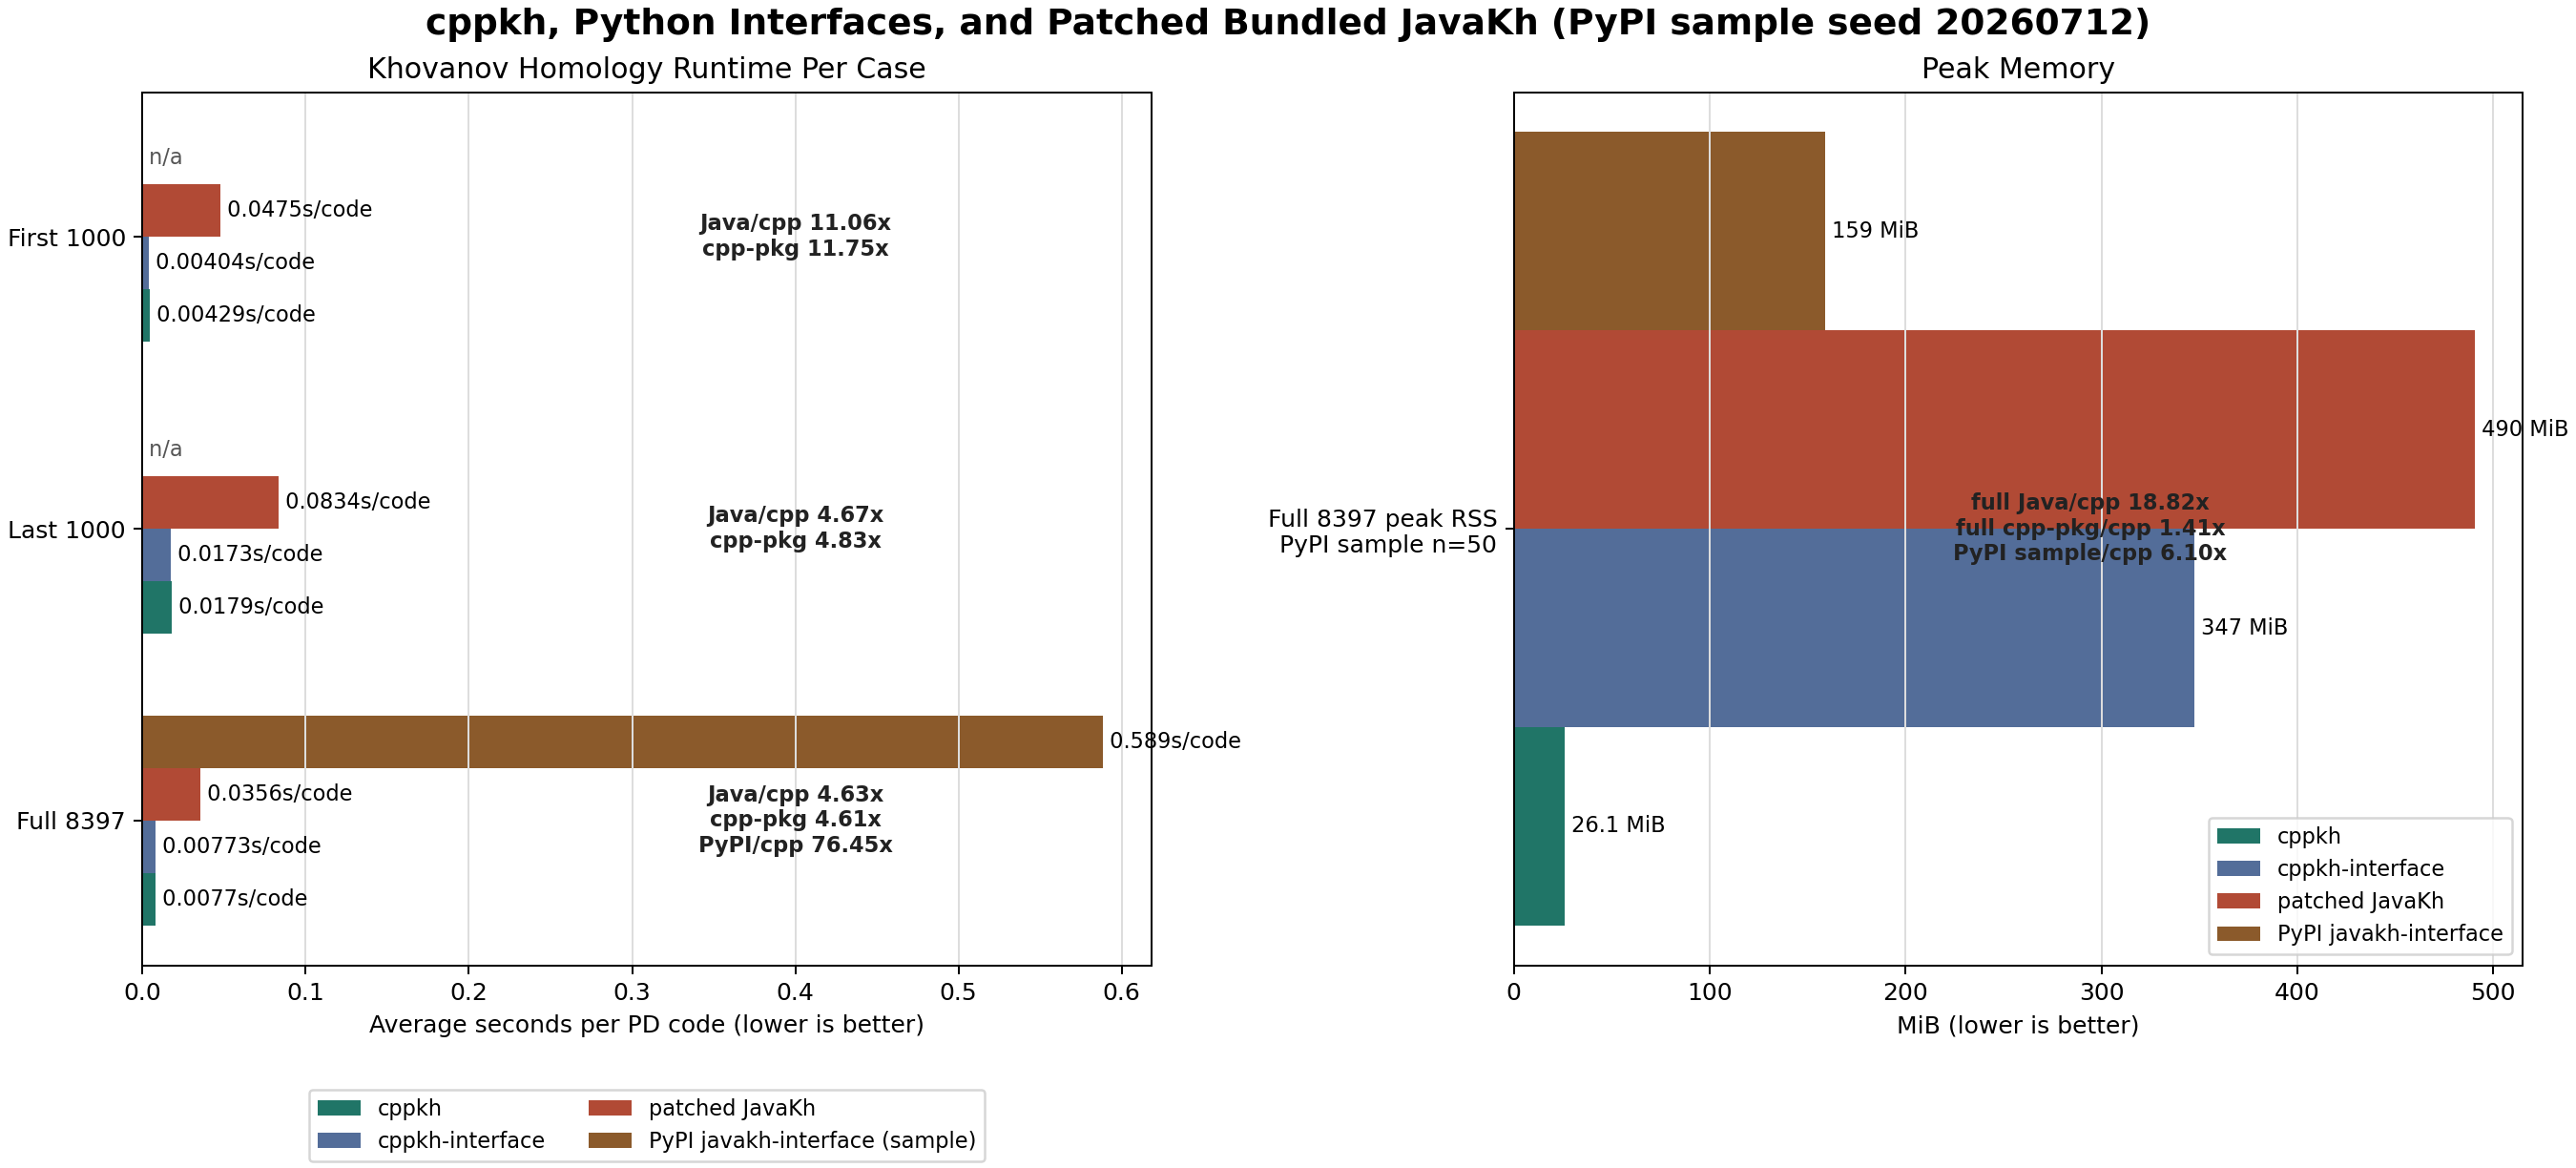
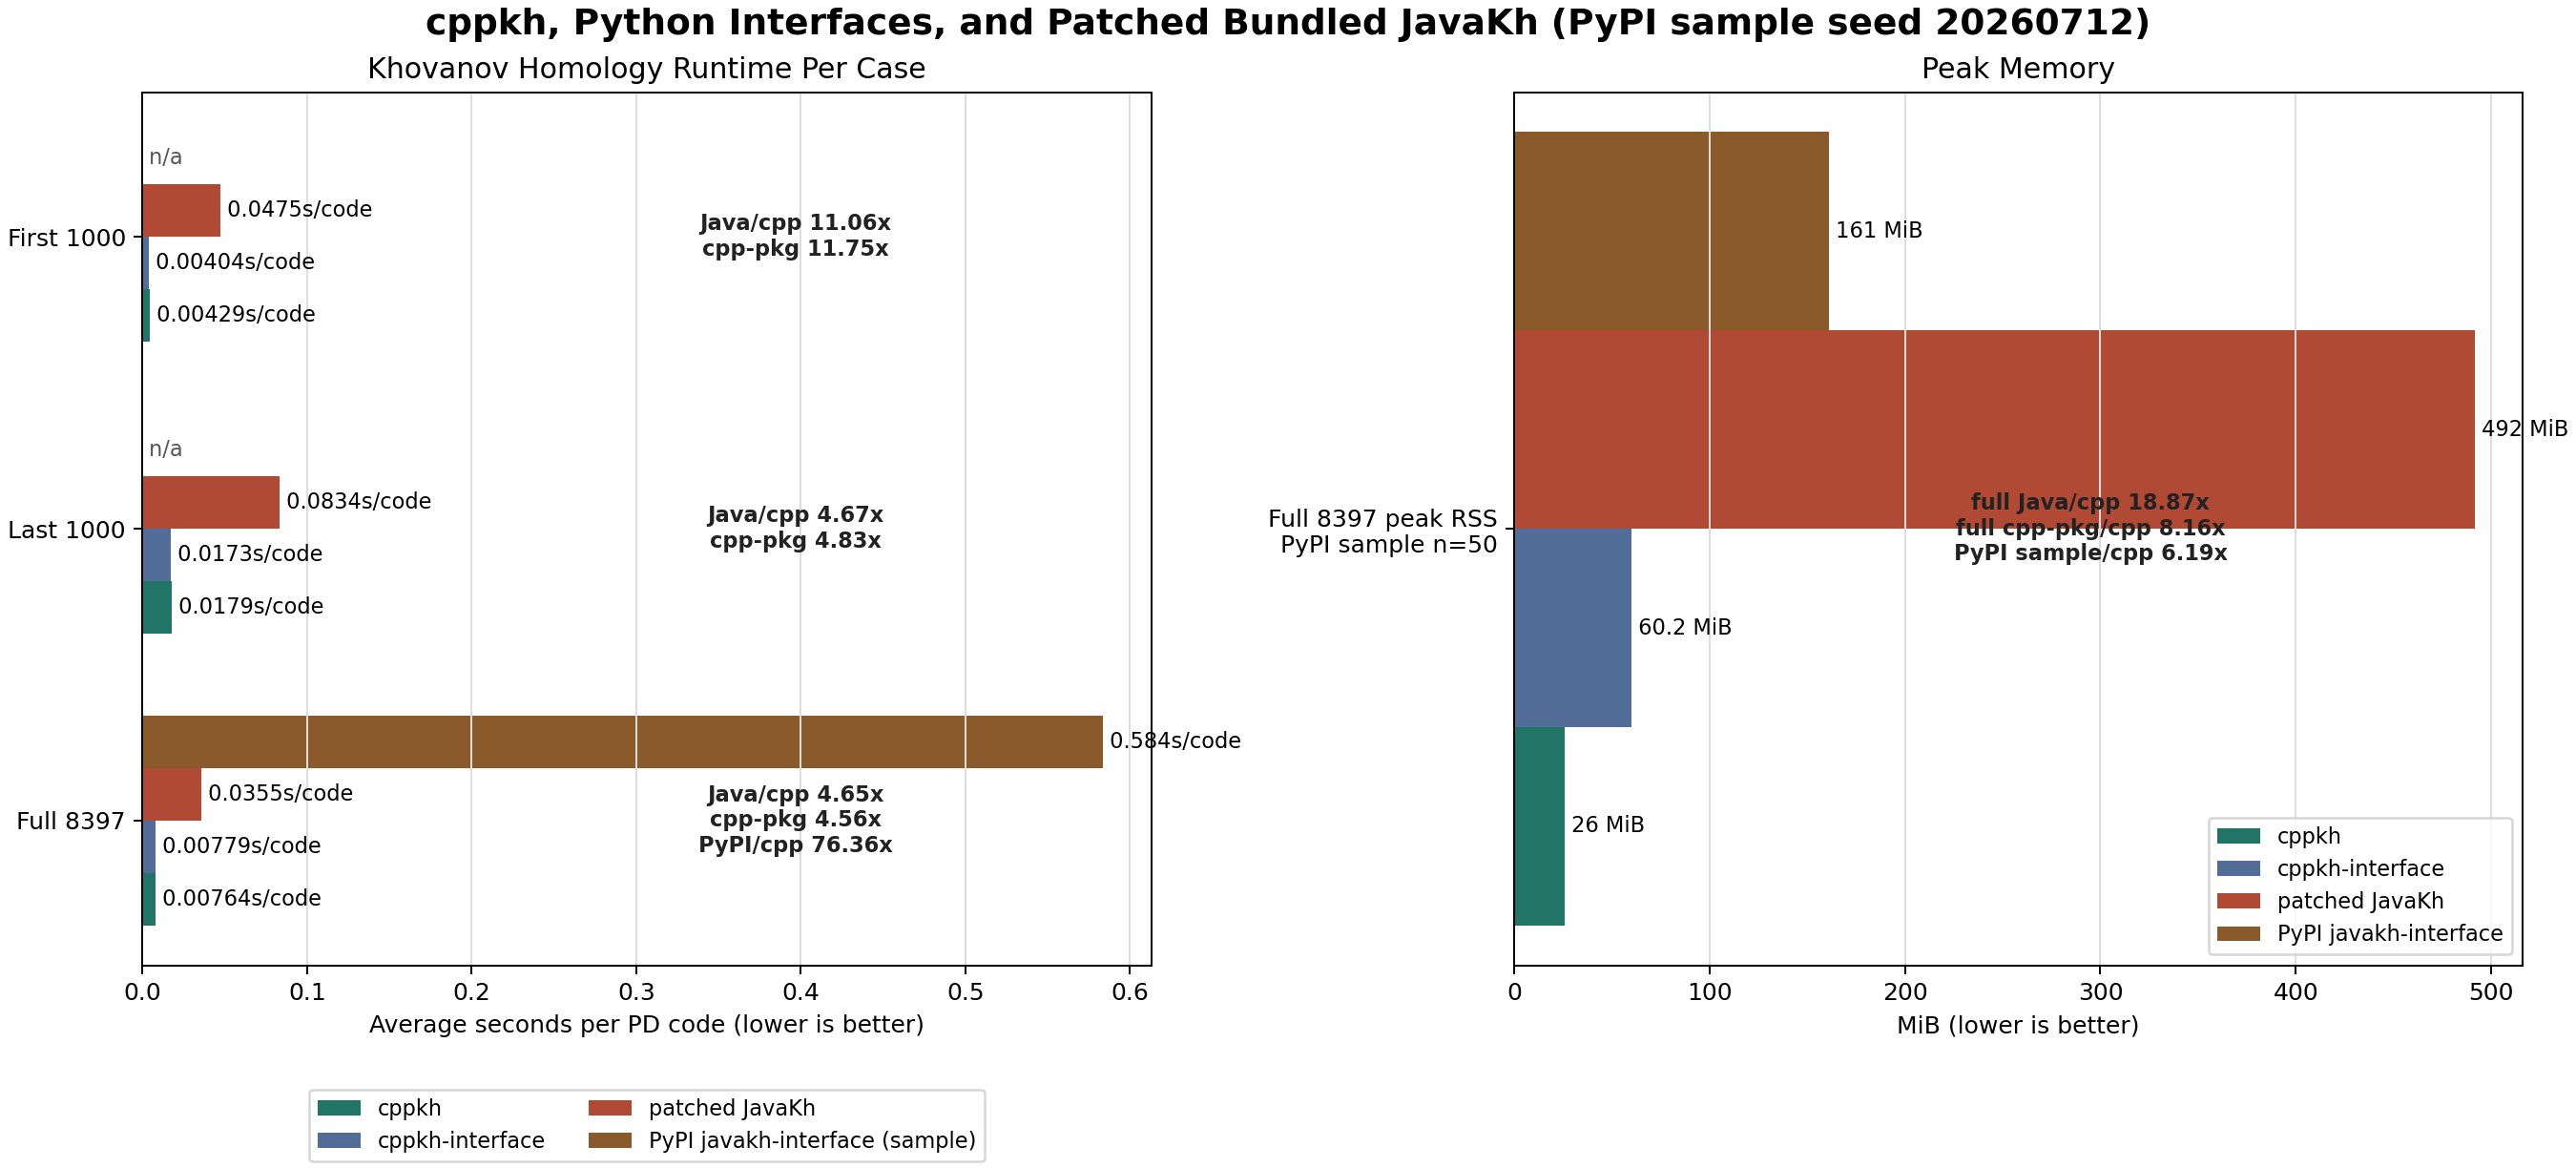
Refresh javakh-interface benchmark results

diff --git a/tools/plot_benchmarks.py b/tools/plot_benchmarks.py
@@ -39,10 +39,10 @@ RUNTIME_ROWS = [
     {
         "label": "Full 8397",
         "items": 8397,
-        "cppkh_seconds": 64.658645,
-        "cppkh_interface_seconds": 64.944292,
-        "javakh_seconds": 299.233587,
-        "javakh_interface_seconds": 29.435682,
+        "cppkh_seconds": 64.185450,
+        "cppkh_interface_seconds": 65.405585,
+        "javakh_seconds": 298.452713,
+        "javakh_interface_seconds": 29.185234,
         "javakh_interface_items": 50,
     },
 ]
@@ -51,10 +51,10 @@ RUNTIME_ROWS = [
 # Filled from a full 8397-case process-memory run with
 # tools/measure_peak_memory.py. Values are peak RSS measurements in MiB.
 MEMORY_MIB = {
-    "cppkh_peak_rss": 26.05859375,
-    "cppkh_interface_peak_rss": 347.16796875,
-    "javakh_peak_rss": 490.4921875,
-    "javakh_interface_peak_rss": 159.0234375,
+    "cppkh_peak_rss": 26.046875,
+    "cppkh_interface_peak_rss": 60.2265625,
+    "javakh_peak_rss": 491.55078125,
+    "javakh_interface_peak_rss": 161.19140625,
 }
 
 JAVAKH_INTERFACE_SAMPLE_SIZE = 50

diff --git a/docs/BENCHMARKS.md b/docs/BENCHMARKS.md
@@ -51,11 +51,11 @@ Machine-local benchmark on Windows, 2026-07-12:
 | --- | ---: | ---: | ---: | ---: | ---: | ---: | ---: | --- |
 | First 1000 lines | 1000 | 1.249s | 4.294s | 4.041s | 47.484s | 11.059x | 11.750x | OK |
 | Last 1000 lines | 1000 | 1.587s | 17.851s | 17.262s | 83.403s | 4.672x | 4.831x | OK |
-| Full `test_pdcode.txt` | 8397 | 12.368s | 64.659s | 64.944s | 299.234s | 4.628x | 4.608x | OK |
+| Full `test_pdcode.txt` | 8397 | 11.891s | 64.185s | 65.406s | 298.453s | 4.650x | 4.563x | OK |
 
 PyPI `javakh-interface` is intentionally not run on the full 8397 cases. On
-the 50-case sample from the full set, it completed in `29.436s`, averaging
-`588.714 ms` per PD code, and matched `cppkh` and patched JavaKh on all 50
+the 50-case sample from the full set, it completed in `29.185s`, averaging
+`583.705 ms` per PD code, and matched `cppkh` and patched JavaKh on all 50
 sampled cases.
 
 ![cppkh benchmark runtime and memory chart](assets/benchmark_runtime_memory.png)
@@ -74,29 +74,29 @@ cppkh-interface   | #### 17.262 ms
 patched JavaKh    | #################### 83.403 ms
 
 Full 8397
-cppkh             | ### 7.700 ms
-cppkh-interface   | ### 7.734 ms
-patched JavaKh    | #################### 35.635 ms
-PyPI javakh-iface | sample n=50, 588.714 ms
+cppkh             | ### 7.644 ms
+cppkh-interface   | ### 7.789 ms
+patched JavaKh    | #################### 35.543 ms
+PyPI javakh-iface | sample n=50, 583.705 ms
 ```
 
 The combined full-run summaries were:
 
 ```text
 items: 8397
-cppkh_seconds: 64.659
-cppkh_interface_seconds: 64.944
-javakh_seconds: 299.234
+cppkh_seconds: 64.185
+cppkh_interface_seconds: 65.406
+javakh_seconds: 298.453
 cppkh_results: 8397
 cppkh_interface_results: 8397
 javakh_results: 8397
 cppkh_javakh_full_match: True
 cppkh_interface_match: True
-java_over_cpp_speed_ratio: 4.628
-java_over_cppkh_interface_speed_ratio: 4.608
+java_over_cpp_speed_ratio: 4.650
+java_over_cppkh_interface_speed_ratio: 4.563
 javakh_interface_sample_size: 50
-javakh_interface_seconds: 29.436
-javakh_interface_average_seconds: 0.589
+javakh_interface_seconds: 29.185
+javakh_interface_average_seconds: 0.584
 javakh_interface_sample_match: True
 ```
 
@@ -111,21 +111,21 @@ the full prepared input. PyPI `javakh-interface` was measured on the same
 
 | Input set | Metric | cppkh | cppkh-interface | patched JavaKh | PyPI javakh-interface |
 | --- | --- | ---: | ---: | ---: | ---: |
-| Full `test_pdcode.txt`; PyPI sample n=50 | Peak RSS | 26.06 MiB | 347.17 MiB | 490.49 MiB | 159.02 MiB |
+| Full `test_pdcode.txt`; PyPI sample n=50 | Peak RSS | 26.05 MiB | 60.23 MiB | 491.55 MiB | 161.19 MiB |
 
 The memory-measurement run completed successfully:
 
 ```text
-cppkh_seconds: 63.974
-cppkh_interface_seconds: 87.758
-javakh_interface_seconds: 28.894
-javakh_seconds: 282.774
-cppkh_peak_rss_mib: 26.059
-cppkh_interface_peak_rss_mib: 347.168
-javakh_interface_peak_rss_mib: 159.023
-javakh_peak_rss_mib: 490.492
-javakh_over_cpp_peak_rss_ratio: 18.823
-javakh_over_cppkh_interface_peak_rss_ratio: 1.413
+cppkh_seconds: 64.816
+cppkh_interface_seconds: 79.644
+javakh_interface_seconds: 28.505
+javakh_seconds: 285.601
+cppkh_peak_rss_mib: 26.047
+cppkh_interface_peak_rss_mib: 60.227
+javakh_interface_peak_rss_mib: 161.191
+javakh_peak_rss_mib: 491.551
+javakh_over_cpp_peak_rss_ratio: 18.872
+javakh_over_cppkh_interface_peak_rss_ratio: 8.162
 javakh_interface_sample_size: 50
 ```
 
@@ -147,11 +147,11 @@ Rerun the peak-RSS measurement on an already prepared full PD file:
 
 ```sh
 python tools/measure_peak_memory.py \
-  --prepared-pd benchmark/triad-full8397-javakh-interface-sample50-010/prepared.pd \
+  --prepared-pd benchmark/triad-full8397-javakh-interface-sample50-011/prepared.pd \
   --cpp-exe dist/windows/cppkh.exe \
   --cppkh-interface-python benchmark/venv-cppkh-interface-011/Scripts/python.exe \
   --cppkh-interface-cache-dir benchmark/cppkh-interface-cache-011 \
   --javakh-interface-python benchmark/venv-javakh-interface-010/Scripts/python.exe \
   --javakh-interface-sample-size 50 \
-  --out benchmark/memory-full8397-javakh-interface-sample50-010.json
+  --out benchmark/memory-full8397-javakh-interface-sample50-011.json
 ```

diff --git a/README.md b/README.md
@@ -65,16 +65,16 @@ R1-move removal and then nugatory-crossing removal are enabled by default.
 ## Performance Snapshot
 
 On the full 8397-case benchmark, `cppkh` and the patched bundled JavaKh
-matched every result. `cppkh` finished in `64.659s`, `cppkh-interface` batch
-API finished in `64.944s` after its executable was already cached, and the
-patched bundled JavaKh native multiline runner finished in `299.234s`. The
+matched every result. `cppkh` finished in `64.185s`, `cppkh-interface` batch
+API finished in `65.406s` after its executable was already cached, and the
+patched bundled JavaKh native multiline runner finished in `298.453s`. The
 PyPI `javakh-interface` package was checked on a deterministic random
-50-case sample and averaged `0.589s` per PD code.
+50-case sample and averaged `0.584s` per PD code.
 
-Peak RSS on the same prepared full input was `26.06 MiB` for `cppkh`,
-`347.17 MiB` for `cppkh-interface` as a Python batch API call, and
-`490.49 MiB` for patched JavaKh. The PyPI `javakh-interface` 50-case sample
-peaked at `159.02 MiB`.
+Peak RSS on the same prepared full input was `26.05 MiB` for `cppkh`,
+`60.23 MiB` for `cppkh-interface` as a Python batch API call, and
+`491.55 MiB` for patched JavaKh. The PyPI `javakh-interface` 50-case sample
+peaked at `161.19 MiB`.
 
 ![cppkh benchmark runtime and memory chart](docs/assets/benchmark_runtime_memory.png)
 

diff --git a/docs/TEST.md b/docs/TEST.md
@@ -154,9 +154,9 @@ already prepared PD file:
 
 ```sh
 python tools/benchmark_cppkh_interface.py \
-  --prepared-pd benchmark/triad-full8397-javakh-interface-sample50-010/prepared.pd \
-  --expected-out benchmark/triad-full8397-javakh-interface-sample50-010/cppkh.out \
-  --out benchmark/cppkh-interface-full8397-sample50-run.json
+  --prepared-pd benchmark/triad-full8397-javakh-interface-sample50-011/prepared.pd \
+  --expected-out benchmark/triad-full8397-javakh-interface-sample50-011/cppkh.out \
+  --out benchmark/cppkh-interface-full8397-sample50-011.json
 ```
 
 The script selects a 64-bit benchmark compiler when one is available. Override
@@ -178,13 +178,13 @@ Measure process-tree RSS for the full-input front ends plus a PyPI
 
 ```sh
 python tools/measure_peak_memory.py \
-  --prepared-pd benchmark/triad-full8397-javakh-interface-sample50-010/prepared.pd \
+  --prepared-pd benchmark/triad-full8397-javakh-interface-sample50-011/prepared.pd \
   --cpp-exe dist/windows/cppkh.exe \
   --cppkh-interface-python path/to/python-with-cppkh-interface \
   --cppkh-interface-cache-dir benchmark/cppkh-interface-cache \
   --javakh-interface-python path/to/python-with-javakh-interface \
   --javakh-interface-sample-size 50 \
-  --out benchmark/memory-full8397-javakh-interface-sample50-010.json
+  --out benchmark/memory-full8397-javakh-interface-sample50-011.json
 ```
 
 The `cppkh-interface` memory row includes the Python wrapper plus its child